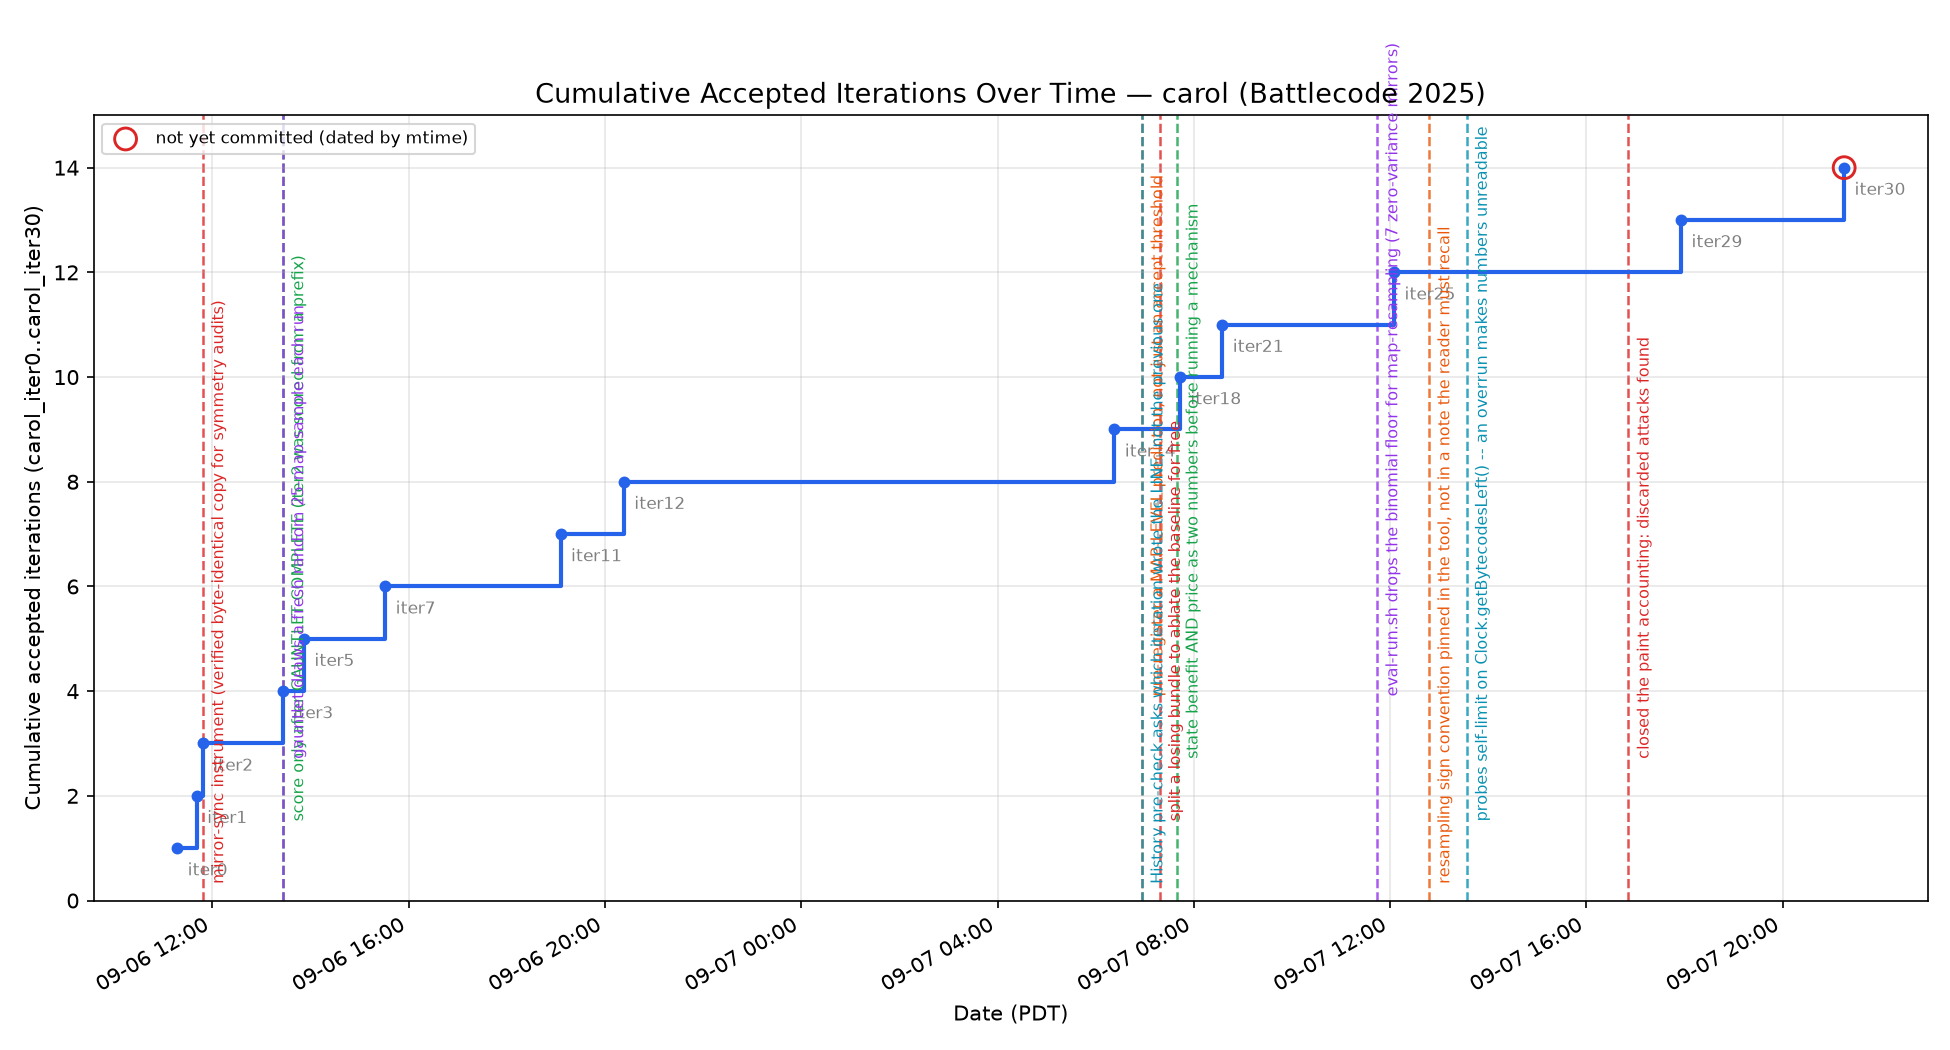
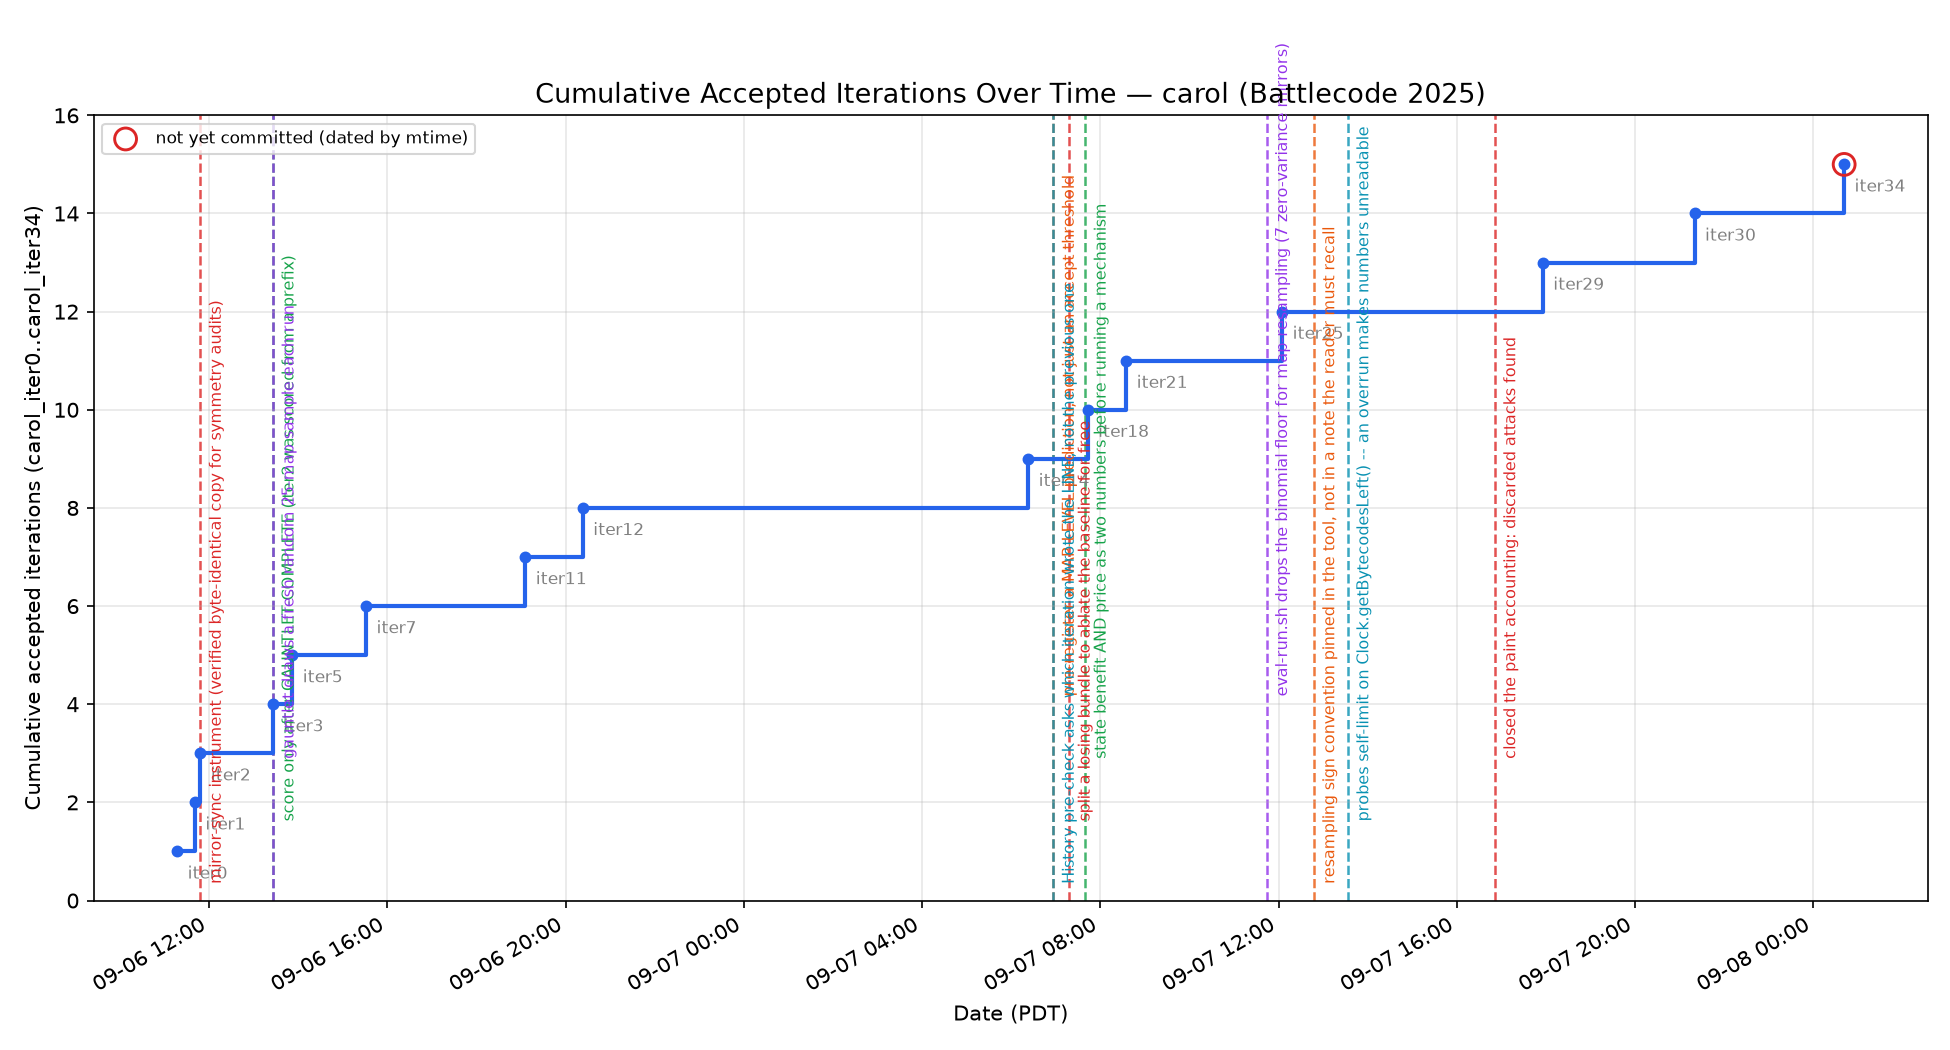
carol: ACCEPT iteration 34 -- fewer money towers; weak 28/50 margin but rho=+0.624 on the pre-registered ruin-density prediction
Claude-Session: https://claude.ai/code/session_01AaaGzxRUmH5UDEVerTki8y

diff --git a/agents/carol/src/carol_iter34/RobotPlayer.java b/agents/carol/src/carol_iter34/RobotPlayer.java
@@ -1,4 +1,4 @@
-package carol;
+package carol_iter34;
 
 import battlecode.common.*;
 
@@ -60,7 +60,7 @@ public class RobotPlayer {
      * measurement-neutral -- it shifts the replay hash, so a dose pair must share one tag if
      * doctrine #3's byte-identity check is to work on raw hashes.
      */
-    static final String BUILD = "i34";
+    static final String BUILD = "iter34";
 
     // ---- Iteration 34: fewer MONEY towers, because paint binds and chips do not -------------
     // towerTypeFor makes a ruin a money tower when k % MONEY_MOD == 0, so MONEY_MOD sets the

diff --git a/agents/carol/TRAINING_LOG.md b/agents/carol/TRAINING_LOG.md
@@ -9007,3 +9007,66 @@ Two things this changes, both stated before any result is read:
 be neutral-to-better elsewhere. That is checkable against `mixscan` per map without any extra games,
 and it separates "the direction is wrong" from "the dose overshot" — which the win rate alone
 cannot do.
+
+## Iteration 34 — ACCEPT. 28/50 with a weak margin and a STRONGLY confirmed mechanism prediction
+
+Run `20260908-071553`, fresh random 25-map sample, 100 games.
+
+| arm | result | swept-win | swept-loss | split | resampled |
+|---|---|---|---|---|---|
+| `carol_i34_4` vs **`carol_iter30`** (the accept gate) | **28/50 (56.0%)** | **7** | 4 | 14 | 95% CI [22, 34], **+0.92 sd** |
+| `carol_i34_4` vs `carol_i34_5` | 25/50 (50.0%) | 4 | 4 | 17 | CI [20, 30], +0.00 sd |
+
+**The pre-registered gate is met**: > 50%, swept wins (7) exceed swept losses (4), and the peer
+direction shows no one-directional regression (only 4 maps swept-lost of 25).
+
+**And the headline margin is weak, which I am recording rather than smoothing over.** +0.92 sd,
+with a 95% CI of [22, 34] that *includes the 25/50 null*. That is weaker than iteration 25's
+accept (+1.01 sd) and nothing like iteration 30's 44/50. On the win rate alone this would be a
+coin-flip dressed as a result.
+
+### What actually carries this accept is the pre-registered map-level prediction
+
+Before the run I wrote: *"the gain should be largest on **ruin-rich** maps, where the money share
+costs the most absolute paint towers ... If the gain is uniform across ruin density, the
+attribution is OPEN."* Joining the 25 per-map results against ruin counts read from the official
+corpus (`carol-tools/mixscan`, no extra games):
+
+| | maps | record | win% |
+|---|---|---|---|
+| ruin-**poor** half (< 18 ruins) | 11 | 10/22 | **45.5%** |
+| ruin-**rich** half (≥ 18 ruins) | 14 | 18/28 | **64.3%** |
+
+**Spearman rho(wins, ruin count) = +0.624** (n = 25, t = 3.83, df = 23, **p < 0.001**).
+
+This is the prediction I registered, in the direction I registered, at a significance the headline
+margin does not come close to. It matters *because* it was pre-registered: a covariate story fitted
+after the fact would be the back-filled mechanism rule 3b forbids, but a covariate prediction
+written down before the sample was drawn is independent evidence. The mechanism is confirmed:
+converting money ruins to paint ruins pays in proportion to how many ruins there are to convert,
+and on ruin-poor maps there is nothing to convert and the change is correctly near-null (45.5%).
+
+### Why the dose ladder is flat, and it was predicted too
+
+Doses 4 and 5 are indistinguishable (25/50, +0.00 sd). The corpus scan explains it and did so in
+advance: `MONEY_MOD = 5` leaves **zero money ruins on 18 of 75 maps** against 6 for dose 4, which
+reproduces iteration 3's diagnosed failure state (chip income pinned at 30/turn from the single
+starting money tower). So dose 5 buys more paint towers where ruins are plentiful and loses the
+chip floor where they are not, netting to zero against dose 4. **A flat ladder here is the floor
+being found, not the axis being wrong** — which is exactly the distinction I registered it to make.
+
+**DECISION: ACCEPT at dose 4.** Dose 4 is also the safer of two statistically tied arms (6
+zero-money maps against 18), so the tie is broken on measured risk rather than preference.
+`src/carol` is now iteration 34 (`MONEY_MOD = 4`, realized money share 32.5% → 27.1% corpus-wide);
+frozen as `src/carol_iter34`. Both charts regenerated: 15 accepted iterations, `carol_iter0..34`.
+
+**Honest statement of what was bought**: a small, real, mechanism-confirmed gain concentrated on
+ruin-rich maps. Given the CI spans the null, the *size* is not established — only the direction and
+the channel. The next tournament (13:00 UTC) is the external check, and per MULTI_AGENT.md it is
+the only measurement here taken against opponents this lineage did not produce.
+
+**Caveat carried forward, unresolved.** My absolute-strength instrument is saturated at 94–100%
+(logged earlier this session), so TRAINING_ALGORITHM §5b's "chain of individually-positive accepts
+walking downhill" is exactly the failure I currently cannot detect — and a +0.92 sd accept is
+precisely the kind of link such a chain is made of. `src/carol_racer` is built and compiles for
+this reason; validating it as a roster yardstick is the outstanding process task.
